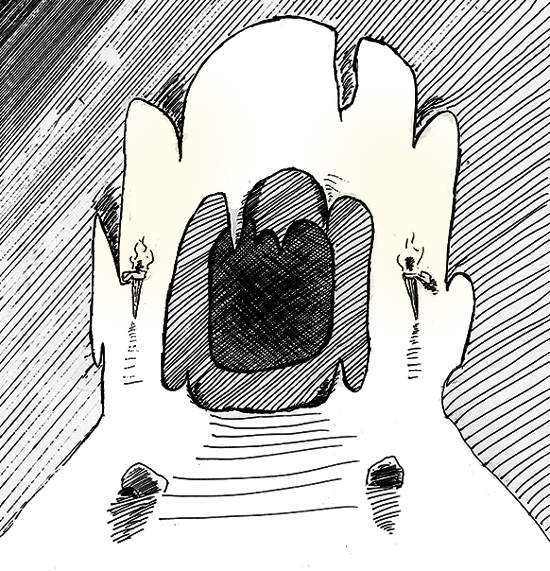
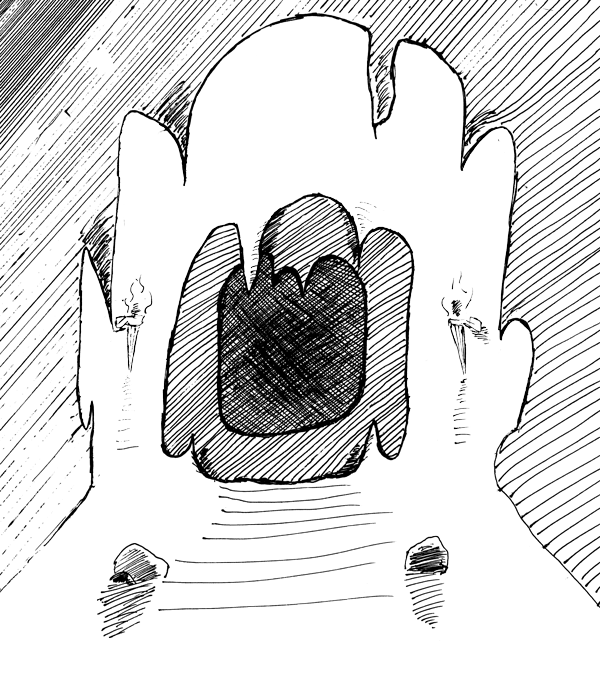
simplified events like end and start into gameUpdate event, added new bog background! refined styles

diff --git a/src/App.js b/src/App.js
@@ -78,29 +78,23 @@ class App extends Component {
       self.setState({players: ioEvent.players})
     })
 
-    socket.on('start', function(ioEvent){
-      self.setState({
-        username:           '',
-        instructions:       null,
-        playerNotification: null,
-        started:            true,
-        winner:             null,
-        time:               'dawn'
-      })
-    })
-
-    // changes the game turn from dawn -> day -> night 
-    socket.on('turn', function(ioEvent){
-      self.setState({time: ioEvent.time})
-      self.setState({instructions: ioEvent.instructions})
+    // changes something about the game state
+    socket.on('gameUpdate', function(ioEvent){
+      // if we are updating the player list
+      if(ioEvent.players){
+        // find and update my user reference
+        for(let n =0; n < ioEvent.players.length; n++){
+          if(ioEvent.players[n]['id'] === socket.id){
+            self.setState({user: ioEvent.players[n]})
+          }
+        }
+      }
+      // update the game state like normal
+      self.setState(ioEvent)
     })
 
     socket.on('notification', function(ioEvent){
       self.playerNotification.call(this, ioEvent.notification, ioEvent.messageClass)
-    })
-
-    socket.on('end', function(ioEvent){
-      self.setState({winner: ioEvent.winner})
     })
 
     socket.on('disconnect', function(){
@@ -140,7 +134,6 @@ class App extends Component {
       this.state.ws.emit('create', {username: this.state.username, botCount: this.state.botCount})
     } else {
       this.state.ws.emit('join', {username: this.state.username, lobbyId: this.state.joinLobbyId})
-      this.setState({lobbyId: this.state.joinLobbyId})
     }
   }
 
@@ -177,8 +170,8 @@ class App extends Component {
       <div className="column">
         {this.state.started && this.state.time === 'day' &&
           <div>
-            <h3>{this.state.time}</h3>
-            <a className="button is-primary" onClick={this.skipVote}>Skip Vote</a>{skippedPlayers.length.toString()}
+            <h3>{skippedPlayers.length.toString()} votes to skip</h3>
+            <a className="button is-primary" onClick={this.skipVote}>Skip Vote</a>
           </div>
         }
       </div>
@@ -214,8 +207,8 @@ class App extends Component {
                 </p>
               </div>
               <div className="field">
-                <p class="control">
-                  <span class="select">
+                <p className="control">
+                  <span className="select">
                     <select onChange={this.handleBotCount}>
                       <option>0</option>
                       <option>2</option>
@@ -244,7 +237,6 @@ class App extends Component {
       </div>
     }
 
-    let title = <h3>Witch Hunt</h3>
     let gameIcon = witchesLogo
     if(this.state.winner === 'villagers'){
       gameIcon = villagersLogo
@@ -258,52 +250,58 @@ class App extends Component {
       }
 
     return (
-      <div className={`App is-${this.state.time} ${settingClass}`}>
-        {this.state.playerNotification &&
-          <div className={`player-notification ${this.state.notificationClass} ${this.state.showNotification ? 'show' : ''}`}>
-            <div className='player-notification-text'>
-              {this.state.playerNotification}
+      <div className={`App container is-${this.state.time} ${settingClass}`}>
+        <div className='column'>
+          {this.state.playerNotification &&
+            <div className={`player-notification ${this.state.notificationClass} ${this.state.showNotification ? 'show' : ''}`}>
+              <div className='player-notification-text'>
+                {this.state.playerNotification}
+              </div>
             </div>
-          </div>
-        }
-        <section className='hero is-medium is-bold transparent'>
-          <div className="hero-body">
-            <div className="container column">
-              {this.state.winner &&
-                <div class="game-state-icon">
-                  <img src={gameIcon} className="App-logo winner" alt="logo" />
-                  <h2>{this.state.winner}</h2>
-                </div>
-              }
-              {!this.state.winner &&
-                <div class="game-state-icon">
-                  <img src={timeIcon} className="App-logo time-icon" alt="logo" />
-                  <img src={farmLogo} className="farm-icon" alt="logo" />
-                </div>
-              }
-              {title}
-              <h2>{this.state.lobbyId}</h2>
-              {this.state.user.isCreator && this.state.players.length >= 4 && !this.state.started &&
-                <button className="button is-primary" onClick={this.readyUp}>Start Game</button>
-              }
-              {this.state.user.isCreator && this.state.players.length >= 4 && this.state.winner &&
-                <button className="button is-primary" onClick={this.readyUp}>Play again</button>
-              }
-              {this.state.instructions &&
-                <div class="instructions">{this.state.instructions}</div>
-              }
-              {this.state.players.length < 4 && this.state.lobbyId !== '' &&
-                <h3>{this.state.players.length}/4 players ready</h3>
-              }
+          }
+          <section className='hero is-medium is-bold transparent'>
+            <div className="hero-body">
+              <div className="column">
+                {this.state.winner &&
+                  <div className="game-state-icon">
+                    <img src={gameIcon} className="App-logo winner" alt="logo" />
+                    <h2>{this.state.winner}</h2>
+                  </div>
+                }
+                {!this.state.winner &&
+                  <div className="game-state-icon">
+                    <img src={timeIcon} className="App-logo time-icon" alt="logo" />
+                    <img src={farmLogo} className="farm-icon" alt="logo" />
+                  </div>
+                }
+                {!this.state.lobbyId &&
+                  <div className="lobby-name">Witch Hunt</div>
+                }
+                {this.state.lobbyId &&
+                  <div className="lobby-name">{this.state.lobbyId}</div>
+                }
+                {this.state.started === false && this.state.user.isCreator && this.state.players.length >= 4 &&
+                  <button className="button is-primary" onClick={this.readyUp}>Start Game</button>
+                }
+                {this.state.user.isCreator && this.state.players.length >= 4 && this.state.winner &&
+                  <button className="button is-primary" onClick={this.readyUp}>Play again</button>
+                }
+                {this.state.instructions &&
+                  <div className="instructions">{this.state.instructions}</div>
+                }
+                {this.state.players.length < 4 && this.state.lobbyId !== '' &&
+                  <h3>{this.state.players.length}/4 players ready</h3>
+                }
+              </div>
             </div>
-          </div>
-        </section>
-          <div className="container column">
-            {intro}
-            <div className={`columns is-mobile is-multiline`}>
-              {playerCardList}
+          </section>
+            <div className="column">
+              {intro}
+              <div className={`columns is-mobile is-multiline`}>
+                {playerCardList}
+              </div>
             </div>
-          </div>
+        </div>
       </div>
     );
   }
@@ -356,7 +354,7 @@ class UserCard extends React.Component {
     classes = myCard && this.props.user.role === 'prophet' && this.props.time === 'dawn' ? 'notification info-card-prophet' : classes
 
     return (
-      <div className="column is-half-mobile is-one-third-tablet is-one-quarter-desktop" onClick={this.handleVote}>
+      <div className="column is-half-mobile is-one-third-tablet is-one-third-desktop" onClick={this.handleVote}>
         <div className={classes}>
           <div className="title">{myCard ? '(you)' : ''}{this.props.player.username}</div>
           <div className="subtitle">

diff --git a/src/index.scss b/src/index.scss
@@ -6,6 +6,7 @@
 
 $night: #003971; // night
 $day: #FFECA7; // day
+$primary: #a20000;
 // $pink: #ffb3b3; // Add pink
 // $family-serif: "Georgia", serif; // Add a serif family
 
@@ -17,6 +18,29 @@ $day: #FFECA7; // day
 // $family-primary: $family-serif; // Use the new serif family
 
 @import "../node_modules/bulma/bulma";
+@import url('https://fonts.googleapis.com/css?family=Overlock+SC');
+
+@mixin box-shadow() {
+  -webkit-box-shadow: 0px 3px 10px 0px rgba(0,0,0,0.5);
+  -moz-box-shadow: 0px 3px 10px 0px rgba(0,0,0,0.5);
+  box-shadow: 0px 3px 10px 0px rgba(0,0,0,0.5);
+}
+
+body {
+  background-color: #1f1f1f;
+}
+
+.button.is-primary {
+  font-size: 1.5rem;
+  font-family: 'Overlock SC', cursive;
+  @include box-shadow;
+  border: solid 2px darken($primary, 10%);
+  text-shadow: 0px 2px 2px rgba(0, 0, 0, 1);
+  &:hover {
+    border: solid 2px darken($primary, 20%);
+    background-color: solid 2px darken($primary, 10%);
+  }
+}
 
 .is-night {
   color: #e5d7b3;
@@ -29,7 +53,7 @@ $day: #FFECA7; // day
 }
 
 .is-day {
-  color: #e5d7b3;
+  color: #fff;
   /* Permalink - use to edit and share this gradient: http://colorzilla.com/gradient-editor/#fff07f+0,fcf3c7+30,fcf3c7+42,7f611c+100 */
   background: #ada15e; /* Old browsers */
   // background: -moz-linear-gradient(top,  #fff07f 0%, #fcf3c7 30%, #fcf3c7 42%, #7f611c 100%); /* FF3.6-15 */
@@ -51,12 +75,11 @@ $day: #FFECA7; // day
 .info-card-villager, .info-card-prophet, .info-card-witch {
   background-image: url('./images/info-card-villager.jpg');
   background-position: center top;
-  -webkit-box-shadow: 0px 3px 10px 0px rgba(0,0,0,0.5);
-  -moz-box-shadow: 0px 3px 10px 0px rgba(0,0,0,0.5);
-  box-shadow: 0px 3px 10px 0px rgba(0,0,0,0.5);
+  @include box-shadow;
   &.notification {
     padding: .25rem;
     .title {
+      font-family: 'Overlock SC', cursive;
       font-size: 1.5rem;
       text-transform: uppercase;
       margin-bottom: .25rem;
@@ -92,6 +115,7 @@ $day: #FFECA7; // day
 }
 
 .App {
+  max-width: 600px;
   text-align: center;
   min-height: 100vh;
   -webkit-transition: background 1s linear;
@@ -100,6 +124,9 @@ $day: #FFECA7; // day
   background-position: center top;
   background-repeat: no-repeat;
   background-size: contain;
+  &.bog {
+    background-image: url('./images/bog.png');
+  }
   &.caves {
     background-image: url('./images/cave.png');
   }
@@ -131,8 +158,21 @@ $day: #FFECA7; // day
   background-color: transparent;
 }
 
+.instructions {
+  font-family: 'Overlock SC', cursive;
+  font-size: 1.5rem;
+  text-shadow: 0px 2px 8px #000, 0 0 1.5rem #000;
+}
+
+.lobby-name {
+  font-size: 2rem;
+  font-family: 'Overlock SC', cursive;
+  text-shadow: 0px 2px 8px #000, 0 0 1.5rem #000;
+}
+
 .player-notification {
   display: flex;
+  font-family: 'Overlock SC', cursive;
   align-items: center;
   justify-content: center;
   background-color: rgba(0,0,0, 0.5);
@@ -140,6 +180,8 @@ $day: #FFECA7; // day
   text-transform: uppercase;
   width: 100vw;
   height: 100vh;
+  left: 0;
+  top: 0;
   position: fixed;
   -webkit-transition: opacity 1s ease-in-out;
   -moz-transition: opacity 1s ease-in-out;
@@ -156,16 +198,28 @@ $day: #FFECA7; // day
     transition: opacity 1s ease-in-out;
   }
   &.failed {
-    color: red;
+    .player-notification-text {
+      text-shadow: 0 0 20px #ee6738;
+      color: red;
+    }
   }
   &.witch {
-    color: red;
+    .player-notification-text {
+      text-shadow: 0 0 20px #ee6738;
+      color: red;
+    }
   }
   &.prophet {
-    color: goldenrod;
+    .player-notification-text {
+      text-shadow: 0 0 20px goldenrod;
+      color: lightgoldenrodyellow
+    }
   }
   &.villager {
-    color: mediumspringgreen;
+    .player-notification-text {
+      text-shadow: 0 0 20px darkseagreen;
+      color: mediumspringgreen;
+    }
   }
   .player-notification-text {
     text-shadow: 0 0 20px #fff;
